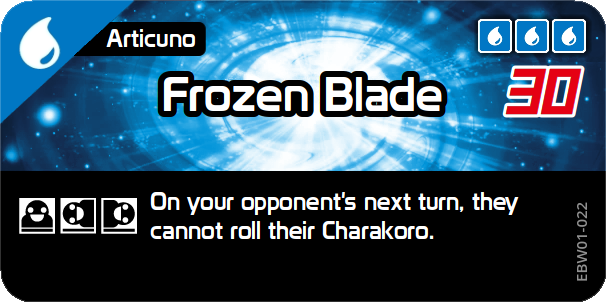
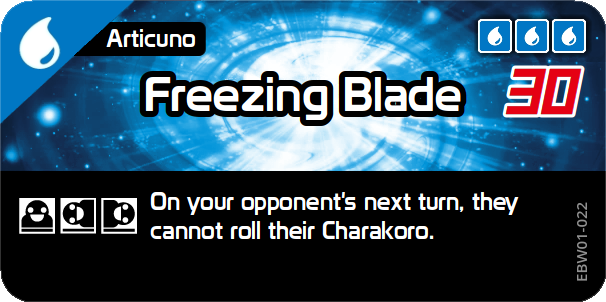
articuno EBW01-022

Changed region(s): [[0.2079, 0.2086, 0.7723, 0.4172]]

diff --git a/database/text/wazacards/EB01/01-003_articuno.md b/database/text/wazacards/EB01/01-003_articuno.md
@@ -21,9 +21,9 @@
 
 [Ice Wing](https://bandai-hobby.net/site/pokemon/plakoro/images/products/eb01/04/img_wazacard01.webp)
 
-#### Frozen Blade ?
+#### Freezing Blade ?
 
-| Name      | Frozen Blade ?                                                  |
+| Name      | Freezing Blade ?                                                |
 | --------- | --------------------------------------------------------------- |
 | Japanese  | いてつくやいば                                                  |
 | Type      | Water                                                           |
@@ -38,7 +38,7 @@
 | Down      |                                                                 |
 | Sideways  | On your opponent's next turn, they cannot roll their Charakoro. |
 
-[Frozen Blade](https://bandai-hobby.net/site/pokemon/plakoro/images/products/eb01/04/img_wazacard02.webp)
+[Freezing Blade](https://bandai-hobby.net/site/pokemon/plakoro/images/products/eb01/04/img_wazacard02.webp)
 
 #### Blizzard Storm ?
 

diff --git a/database/text/wazacards/EB01/01-001_pinsir.md b/database/text/wazacards/EB01/01-001_pinsir.md
@@ -133,7 +133,7 @@
 | Down      |                                                                                      |
 | Sideways  | During your last turn, if your Enekoro roll failed, this attack does 40 more damage. |
 
-[Pincer Charge](https://bandai-hobby.net/site/pokemon/plakoro/images/products/eb01/03/img_wazacard07.webp)
+[Berserk Swing](https://bandai-hobby.net/site/pokemon/plakoro/images/products/eb01/03/img_wazacard07.webp)
 
 #### Reckless Charge
 

diff --git a/database/text/wazacards/EB01/01-002_moltres.md b/database/text/wazacards/EB01/01-002_moltres.md
@@ -76,7 +76,7 @@
 | Down      | This attack does 40 more damage.            |
 | Sideways  | This Pokémon also does 40 damage to itself. |
 
-[Flamethrower](https://bandai-hobby.net/site/pokemon/plakoro/images/products/eb01/06/img_wazacard04.webp)
+[Flare Blitz](https://bandai-hobby.net/site/pokemon/plakoro/images/products/eb01/06/img_wazacard04.webp)
 
 #### Hurricane
 
